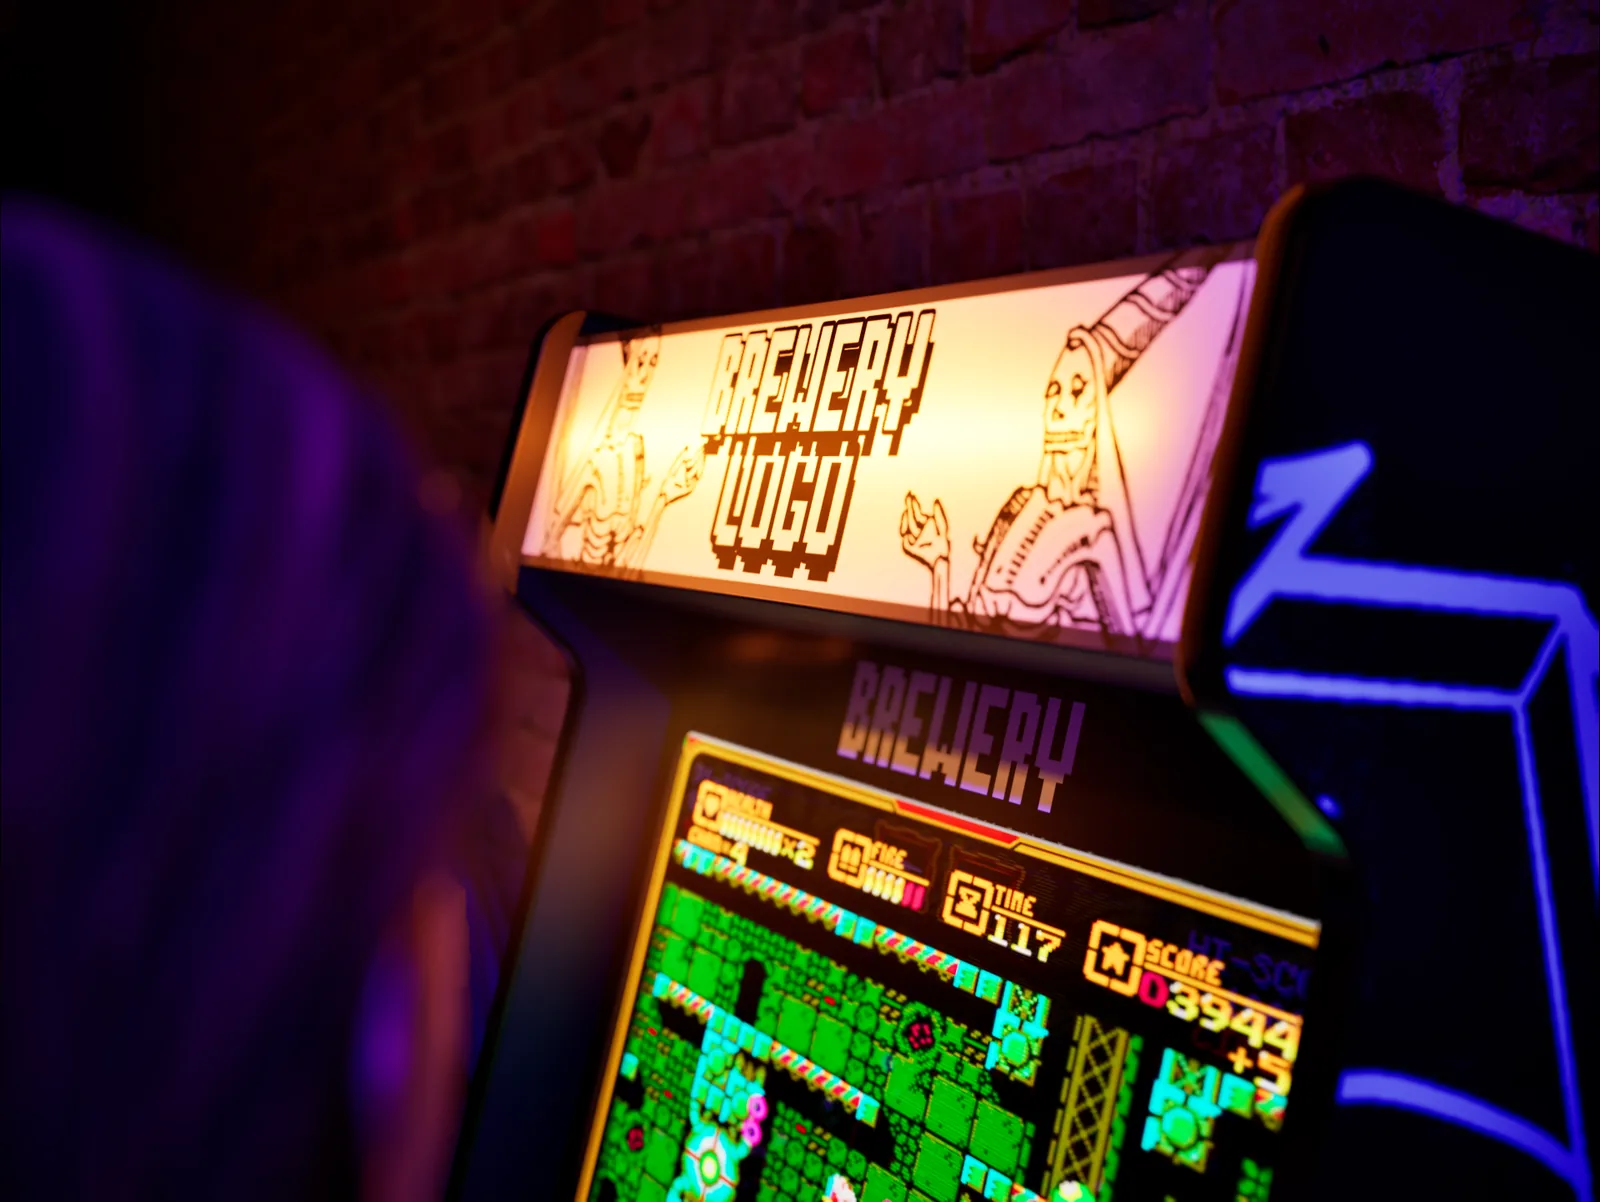
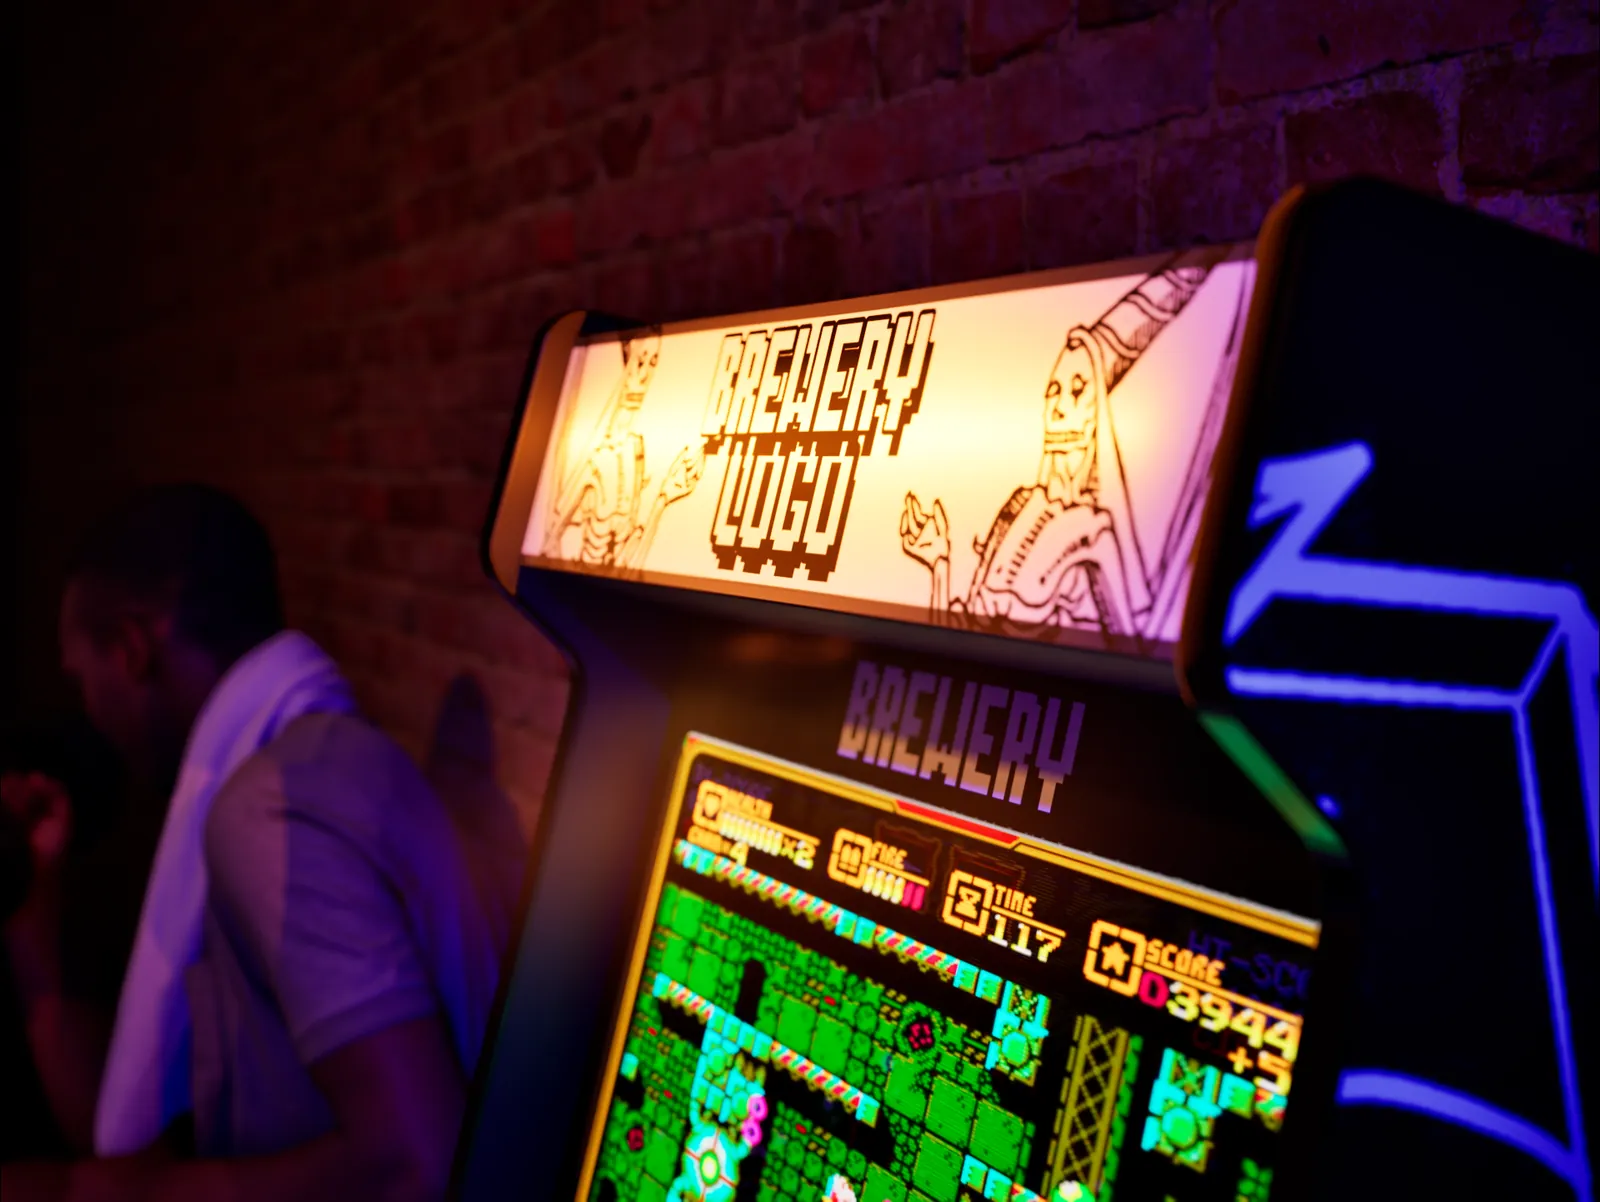
Update hero and gallery images with new renders
Claude-Session: https://claude.ai/code/session_01G1ucLrMbuPWt4HdHkzrX8K

Changed region(s): [[0.0, 0.1539, 0.3125, 1.0]]

diff --git a/index.html b/index.html
@@ -64,7 +64,7 @@ nav a {
 nav a:hover, nav a:focus-visible { background: var(--accent); border-color: var(--accent); color: var(--bg); }
 
 /* Page backdrop: taproom photo, dimmed, fixed behind everything. Content scrolls over it. */
-body::before { content: ""; position: fixed; z-index: -1; top: 0; left: 0; width: 100%; height: 100vh; height: 100lvh; height: var(--bgh, 100lvh); transform: translate3d(var(--tx, 0px), var(--ty, 0px), 0) scale(var(--zoom, 1)); transform-origin: 0 0; will-change: transform; backface-visibility: hidden; background: linear-gradient(rgba(0,0,0,0.5), rgba(0,0,0,0.68)), url("images/taproom.jpg?v=3") 50% 42% / cover no-repeat; }
+body::before { content: ""; position: fixed; z-index: -1; top: 0; left: 0; width: 100%; height: 100vh; height: 100lvh; height: var(--bgh, 100lvh); transform: translate3d(var(--tx, 0px), var(--ty, 0px), 0) scale(var(--zoom, 1)); transform-origin: 0 0; will-change: transform; backface-visibility: hidden; background: linear-gradient(rgba(0,0,0,0.5), rgba(0,0,0,0.68)), url("images/taproom.jpg?v=4") 50% 42% / cover no-repeat; }
 /* Header: solid black strip across the full width of the screen */
 header { position: relative; isolation: isolate; z-index: 5; }
 /* Black top strip + two black panels with rounded bottom corners; photo shows between them */
@@ -315,13 +315,13 @@ html{background:#000}body{margin:0}img{max-width:100%}[hidden]{display:none!impo
       </div>
       </div>
       <div class="gallery" aria-label="Cabinet renders">
-<button type="button" class="g-item g-wide" data-i="0" data-full="images/gallery/2.webp?v=3" data-cap="Players gather round the cabinet"><img src="images/gallery/2-t.webp?v=3" width="800" height="601" alt="Customers standing around an Indybox cabinet" loading="lazy"></button>
-<button type="button" class="g-item" data-i="1" data-full="images/gallery/1.webp" data-cap="Wrapped for a brewery, in the taproom"><img src="images/gallery/1-t.webp" width="800" height="601" alt="An Indybox cabinet in a brick-walled taproom" loading="lazy"></button>
-<button type="button" class="g-item" data-i="2" data-full="images/gallery/3.webp" data-cap="The backlit marquee carries the brewery's logo"><img src="images/gallery/3-t.webp" width="800" height="601" alt="Close-up of the cabinet's lit marquee" loading="lazy"></button>
-<button type="button" class="g-item" data-i="3" data-full="images/gallery/4.webp" data-cap="Screen and controls"><img src="images/gallery/4-t.webp" width="800" height="601" alt="Close-up of the screen and joysticks" loading="lazy"></button>
-<button type="button" class="g-item" data-i="4" data-full="images/gallery/5.webp" data-cap="Front on"><img src="images/gallery/5-t.webp" width="800" height="601" alt="Front view of the cabinet" loading="lazy"></button>
-<button type="button" class="g-item" data-i="5" data-full="images/gallery/6.webp" data-cap="A QR code takes players to indybox.games"><img src="images/gallery/6-t.webp" width="800" height="601" alt="Close-up of the QR code panel" loading="lazy"></button>
-<button type="button" class="g-item" data-i="6" data-full="images/gallery/7.webp" data-cap="Side panel artwork"><img src="images/gallery/7-t.webp" width="800" height="601" alt="Side of the cabinet with brewery artwork" loading="lazy"></button>
+<button type="button" class="g-item g-wide" data-i="0" data-full="images/gallery/2.webp?v=4" data-cap="Players gather round the cabinet"><img src="images/gallery/2-t.webp?v=4" width="800" height="601" alt="Customers standing around an Indybox cabinet" loading="lazy"></button>
+<button type="button" class="g-item" data-i="1" data-full="images/gallery/1.webp?v=4" data-cap="Wrapped for a brewery, in the taproom"><img src="images/gallery/1-t.webp?v=4" width="800" height="601" alt="An Indybox cabinet in a brick-walled taproom" loading="lazy"></button>
+<button type="button" class="g-item" data-i="2" data-full="images/gallery/3.webp?v=4" data-cap="The backlit marquee carries the brewery's logo"><img src="images/gallery/3-t.webp?v=4" width="800" height="601" alt="Close-up of the cabinet's lit marquee" loading="lazy"></button>
+<button type="button" class="g-item" data-i="3" data-full="images/gallery/4.webp?v=4" data-cap="Screen and controls"><img src="images/gallery/4-t.webp?v=4" width="800" height="601" alt="Close-up of the screen and joysticks" loading="lazy"></button>
+<button type="button" class="g-item" data-i="4" data-full="images/gallery/5.webp?v=4" data-cap="Front on"><img src="images/gallery/5-t.webp?v=4" width="800" height="601" alt="Front view of the cabinet" loading="lazy"></button>
+<button type="button" class="g-item" data-i="5" data-full="images/gallery/6.webp?v=4" data-cap="A QR code takes players to indybox.games"><img src="images/gallery/6-t.webp?v=4" width="800" height="601" alt="Close-up of the QR code panel" loading="lazy"></button>
+<button type="button" class="g-item" data-i="6" data-full="images/gallery/7.webp?v=4" data-cap="Side panel artwork"><img src="images/gallery/7-t.webp?v=4" width="800" height="601" alt="Side of the cabinet with brewery artwork" loading="lazy"></button>
       </div>
       <dialog id="lightbox" aria-label="Image viewer">
         <img id="lb-img" alt="">
